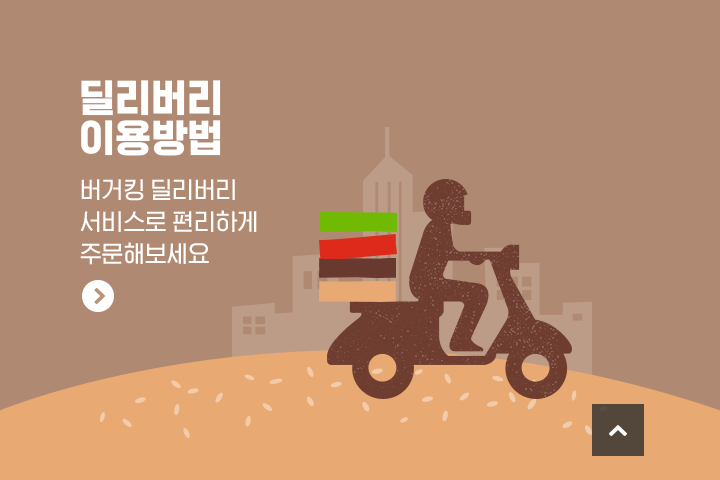
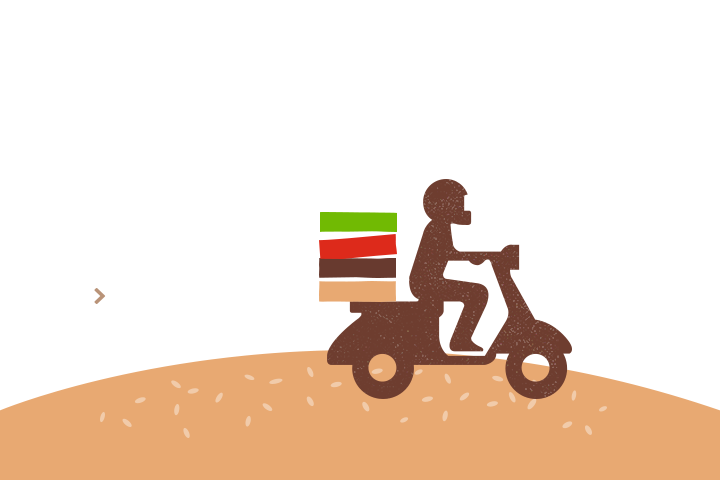
main img update

diff --git a/WEB_Burgerking/src/main/webapp/css/burger.css b/WEB_Burgerking/src/main/webapp/css/burger.css
@@ -1160,6 +1160,39 @@ input[type=color], input[type=date], input[type=datetime], input[type=email],
 
 
 /* index.jsp--------------------------------------------------------------------------*/
+.btn_top {
+    left: 50%;
+    right: auto;
+    margin-left: 592px;
+}
+.btn_top {
+    position: fixed;
+    right: 20px;
+    bottom: 316px;
+    width: 52px;
+    height: 52px;
+    text-indent: -9999em;
[1 lines of base64/hex data omitted]
+    z-index: 50;
+}
+
+.home_guide .web_container>div {
+    position: absolute;
+    top: 0;
+    width: 50%;
+    height: 0;
+    padding-top: 33.333%;
+    float: left;
+    background-size: cover;
+}
+#delivery77 {
+    position: relative;
+    float: left;
+    width: 50%;
+    height: 100%;
+    background: #b08972;
+}
+
 #slide {
 	position: relative;
 	overflow: hidden;
